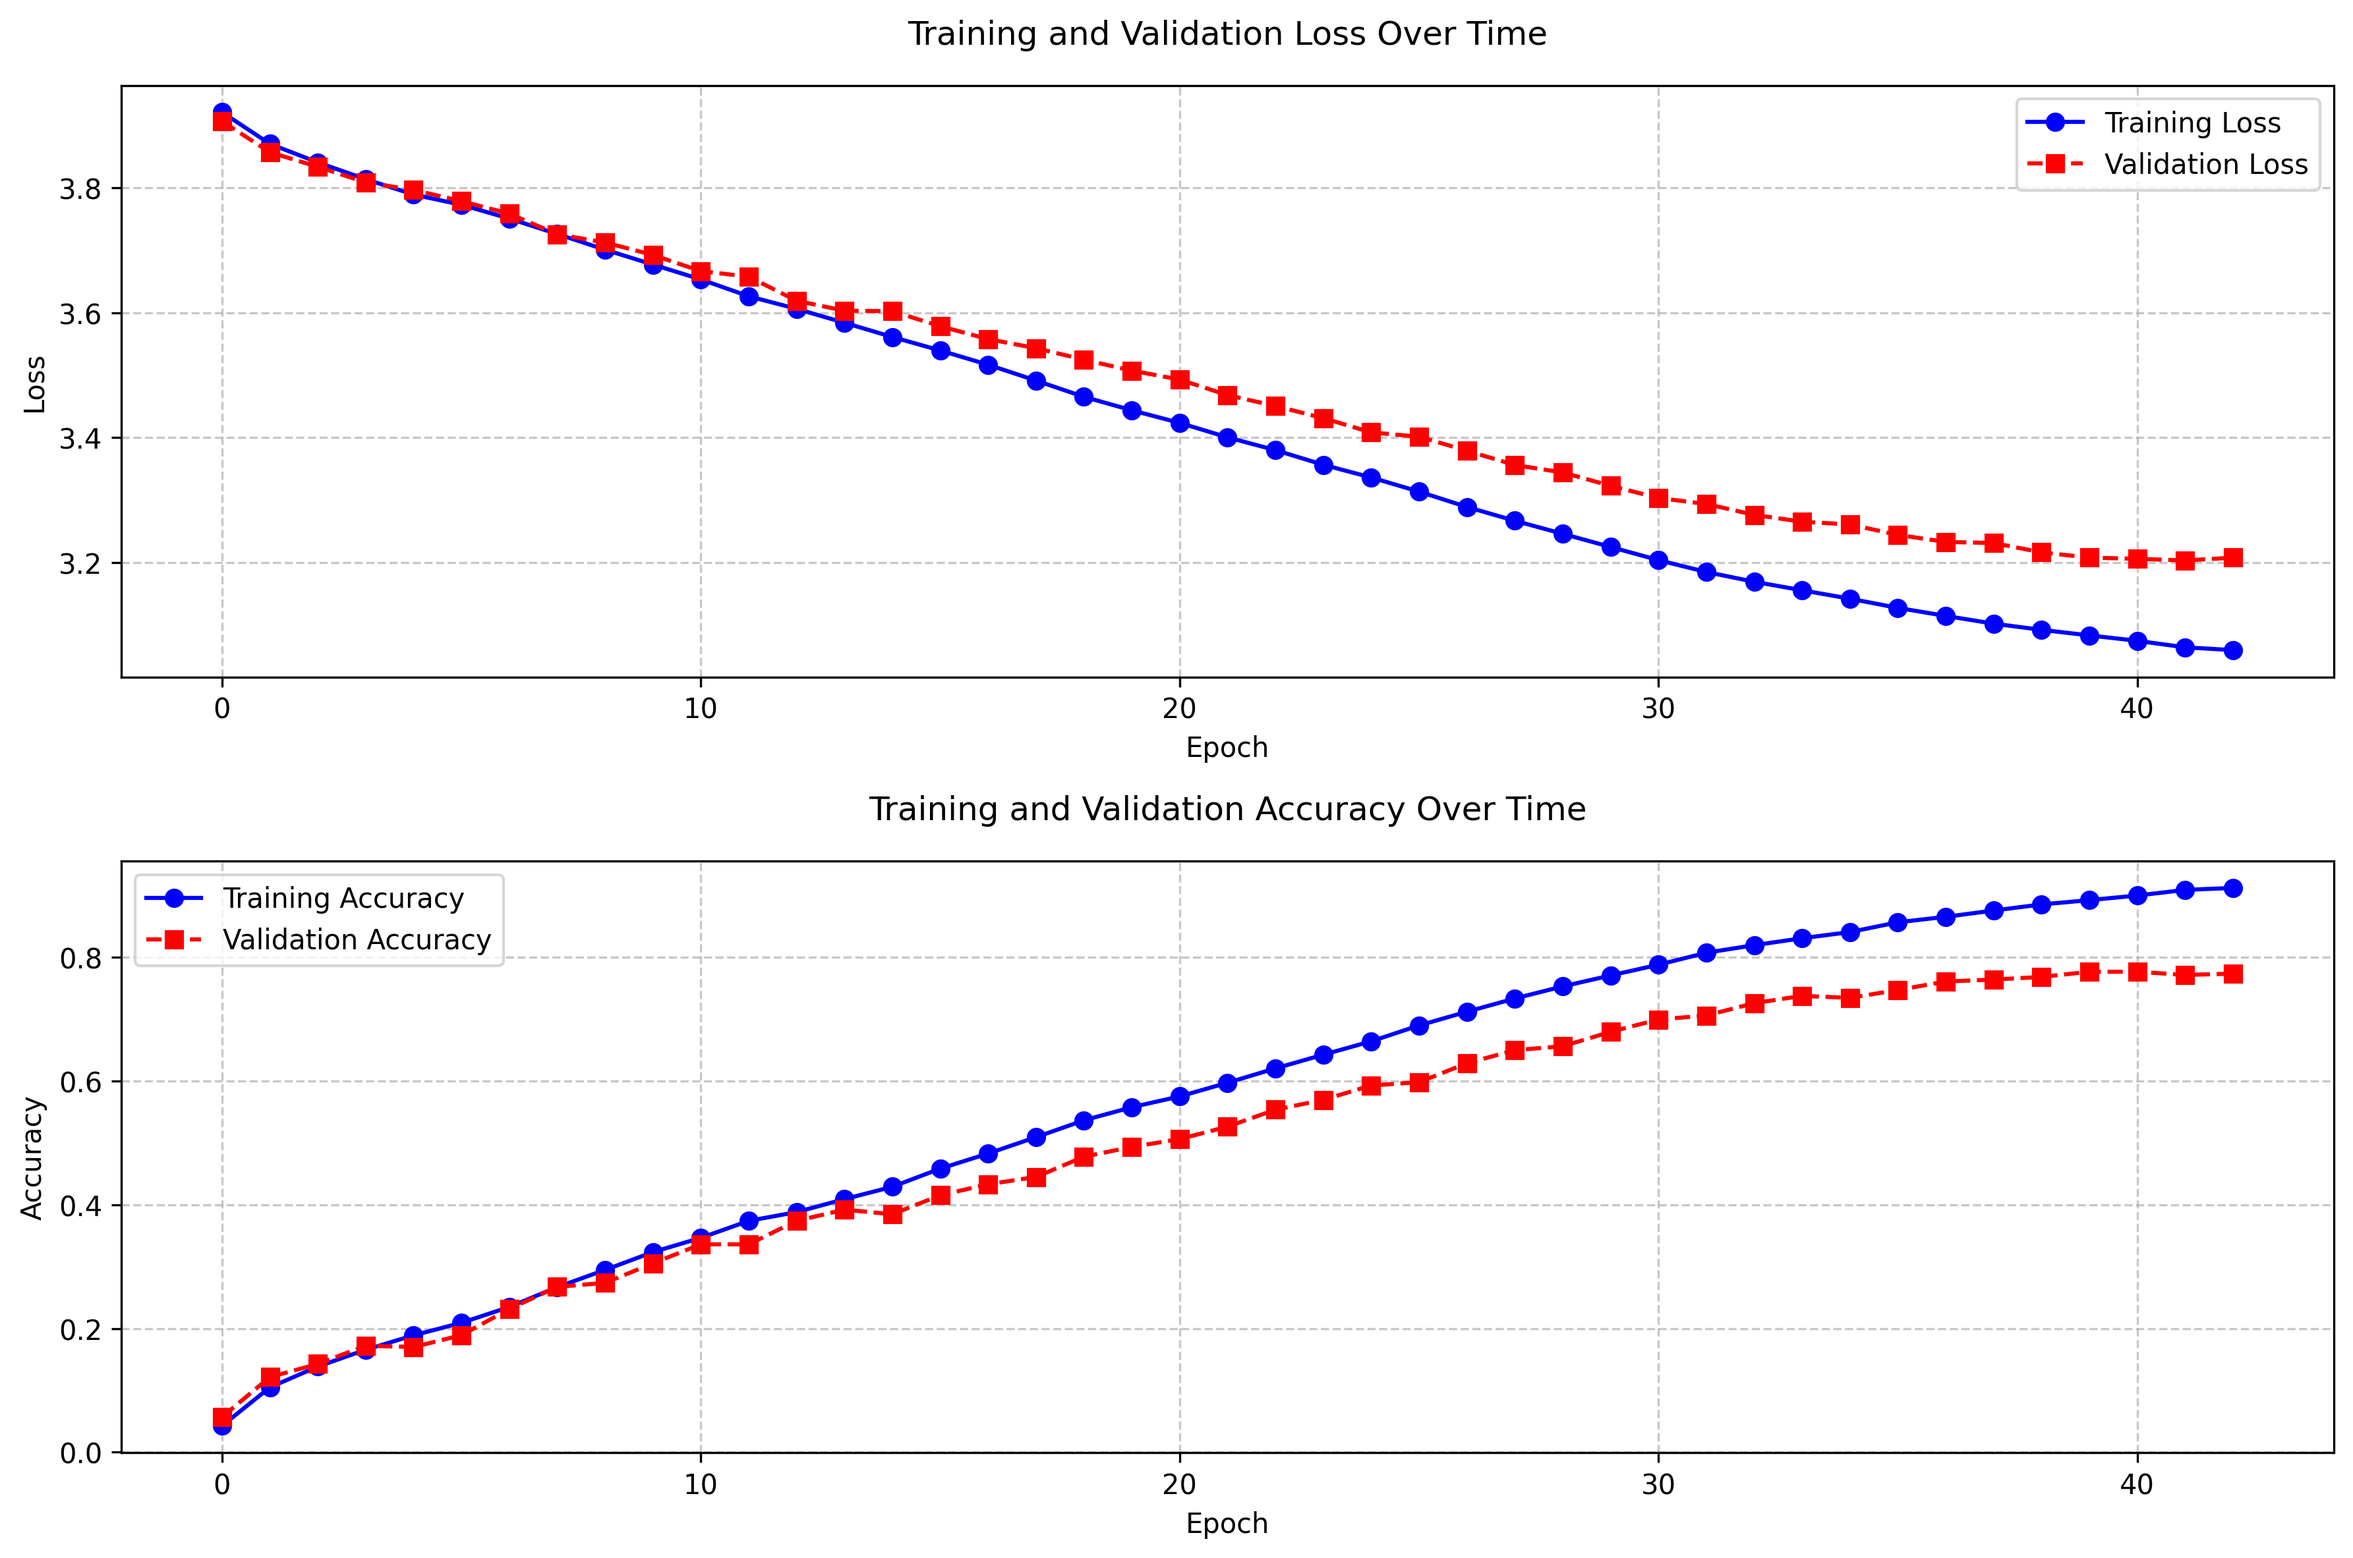
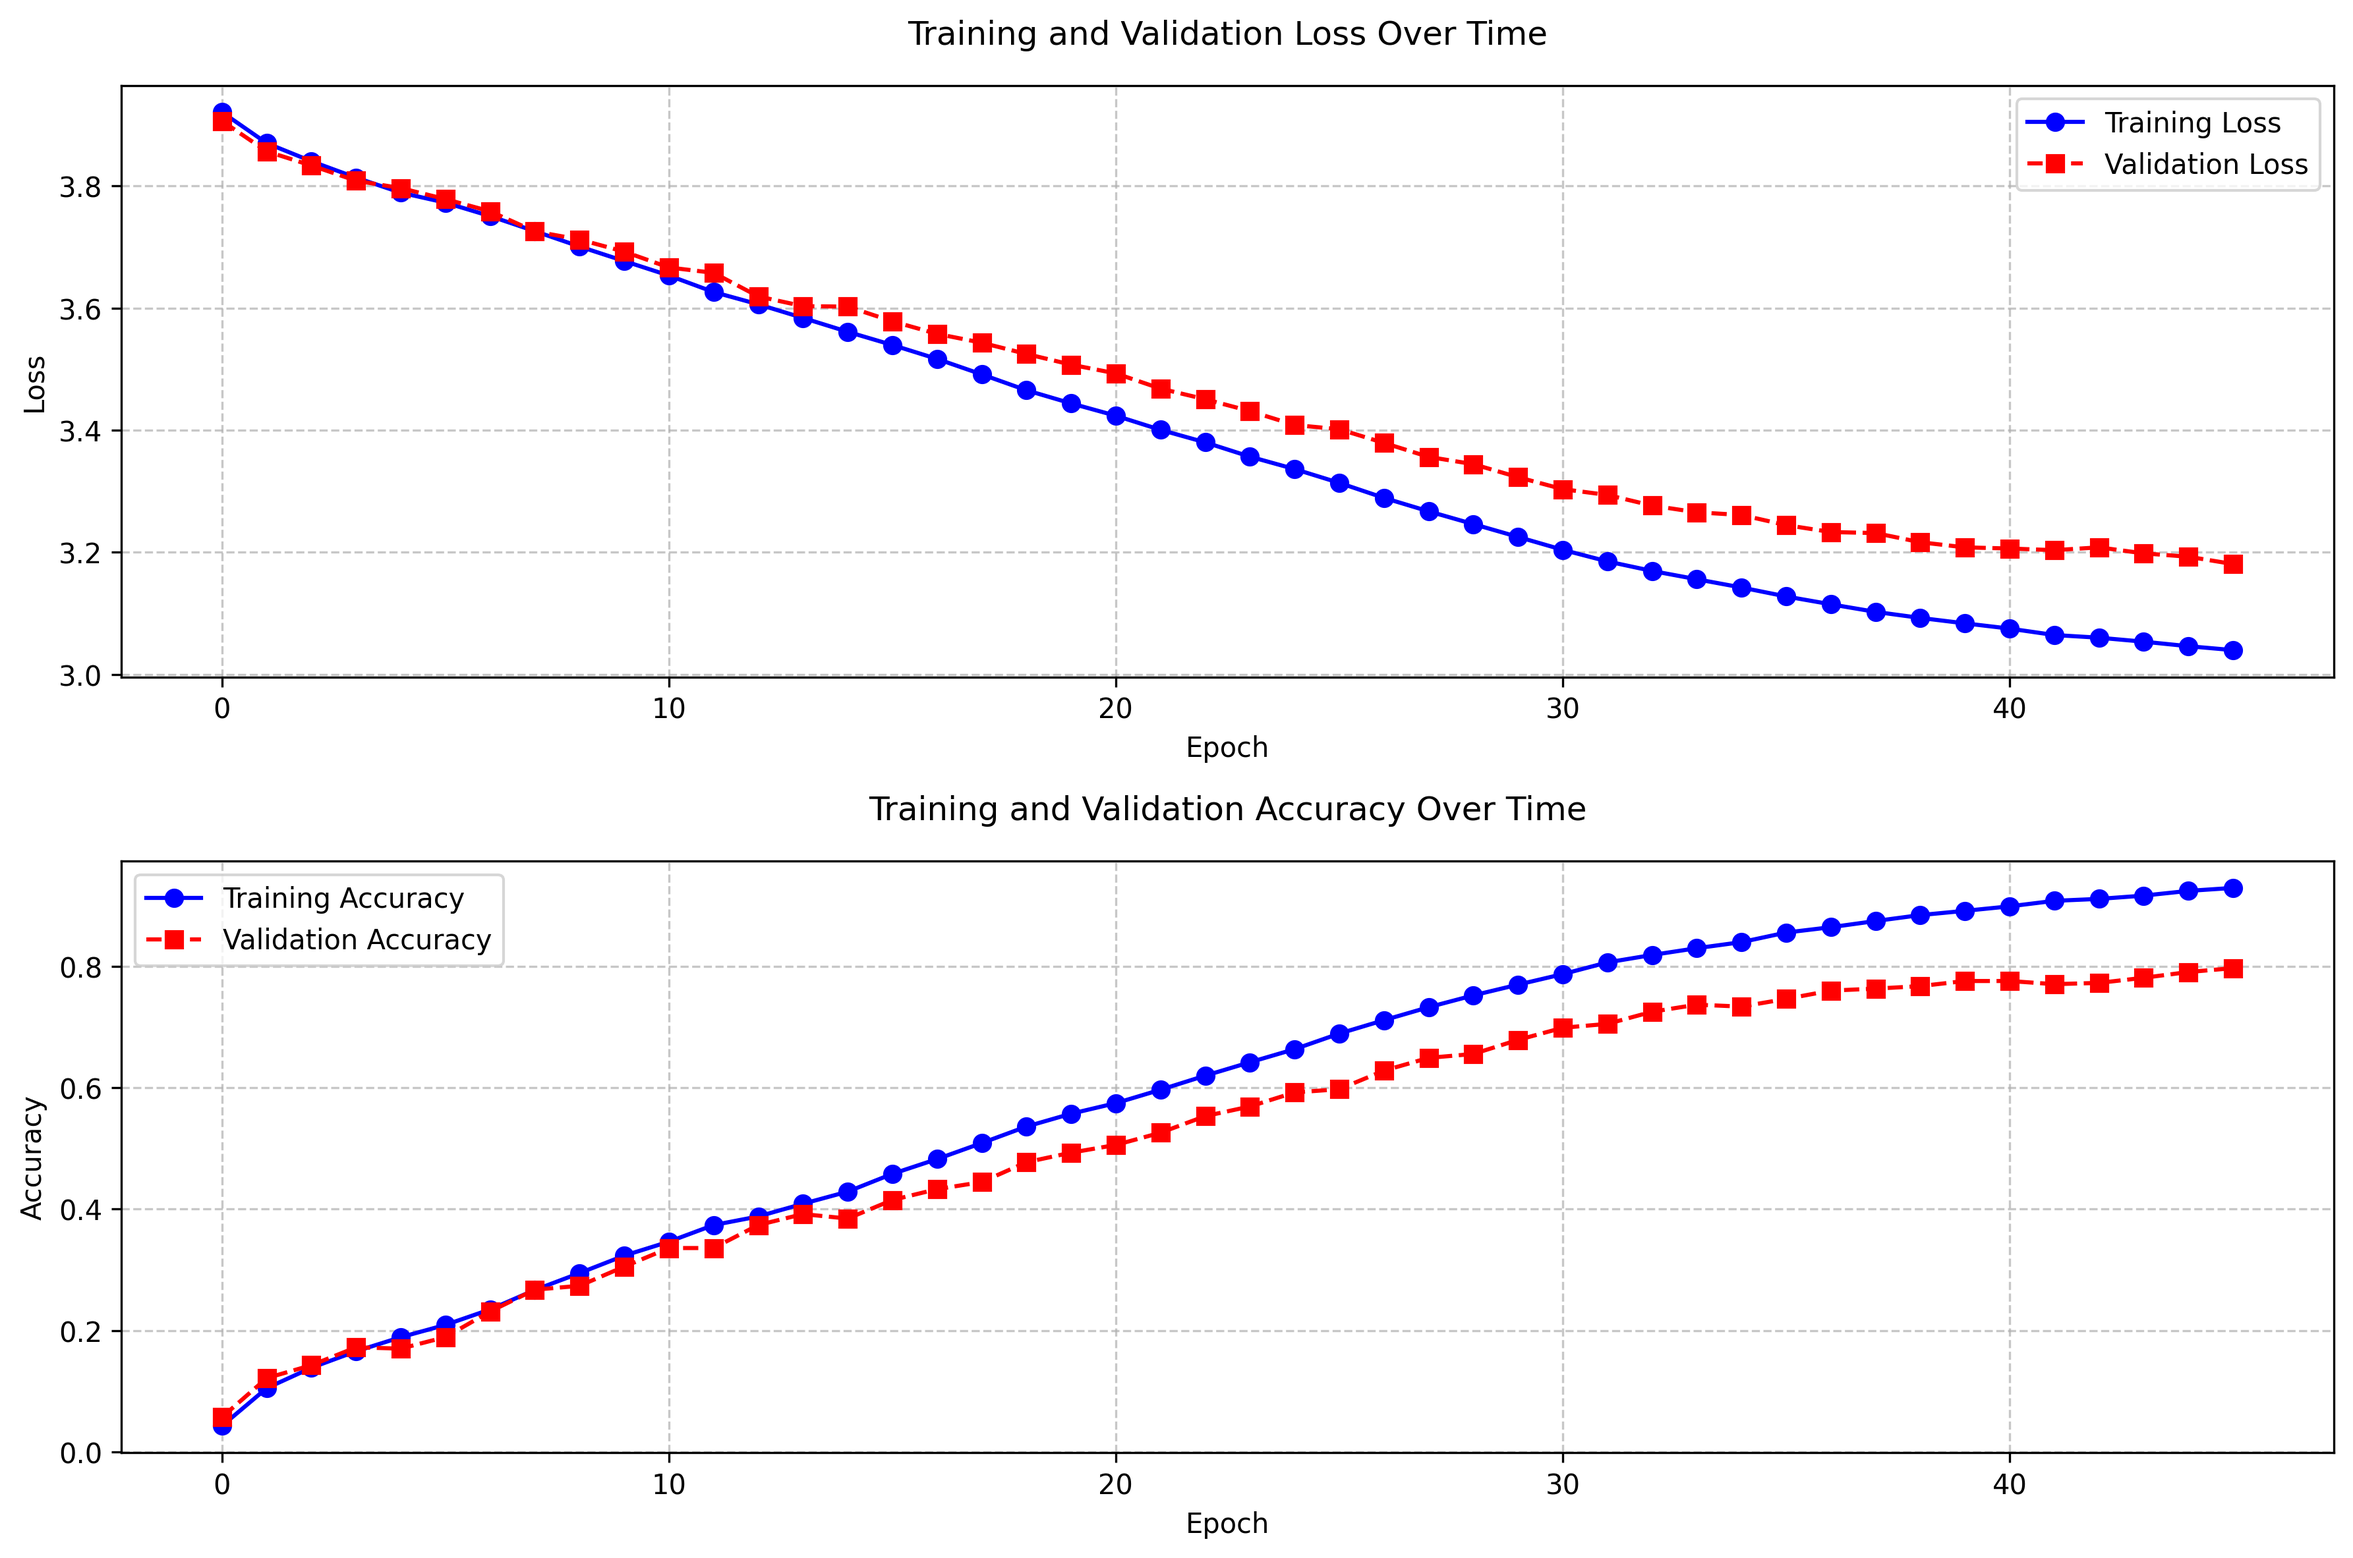
traintask0

diff --git a/train_task0.py b/train_task0.py
@@ -77,7 +77,8 @@ class TrainingConfigs:
     adamw_betas = (0.9, 0.999)
     weight_decay = 1e-5
     eta_min = 1e-10
-    T_max = num_training_epochs // 4
+    warmup_epochs = 12
+    T_max = num_training_epochs - warmup_epochs
     model_output_dir = "Outputs/Models/Trial_51_run2"
 
 def set_all_seeds(seed):
@@ -334,8 +335,8 @@ def main():
             accelerator.wait_for_everyone()
             unwrapped_model = accelerator.unwrap_model(model)
             torch.save(unwrapped_model.state_dict(), os.path.join(TrainingConfigs.model_output_dir, 'best_model.pth'))
-        
-        # scheduler.step()
+        if epoch > TrainingConfigs.warmup_epochs:
+            scheduler.step()
     accelerator.end_training()
     
 if __name__ == "__main__":

diff --git a/finetune_task_n.py b/finetune_task_n.py
@@ -48,11 +48,11 @@ for index, label in enumerate(all_labels):
     
 for label in task_0_labels:
     label_df = ucf_train_task0[ucf_train_task0['label'] == label]
-    label_df = label_df.sample(5)
+    label_df = label_df.sample(random_state=42)
     train_ucf_task1 = pd.concat([train_ucf_task1, label_df])
     
     label_df = ucf_valid_task0[ucf_valid_task0['label'] == label]
-    label_df = label_df.sample(5)
+    label_df = label_df.sample(random_state=42)
     valid_ucf_task1 = pd.concat([valid_ucf_task1, label_df])
     
 train_ucf_task1 = train_ucf_task1.reset_index(drop=True)
